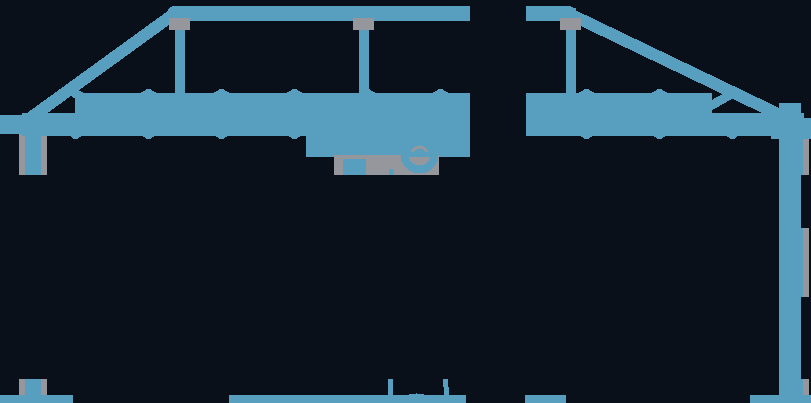
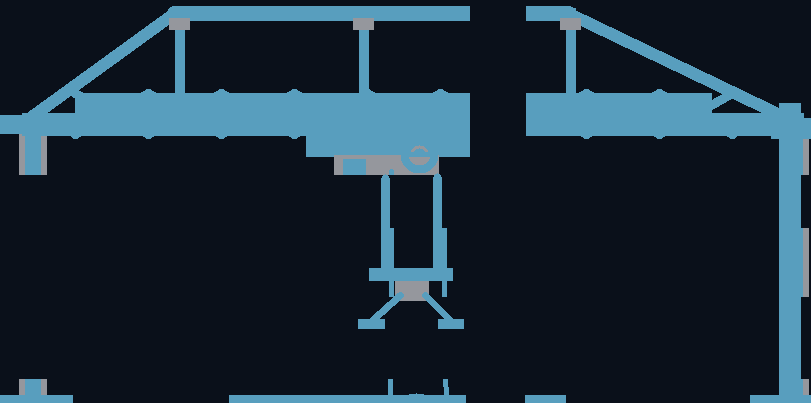
WORLDGROUP-FREIGHT Cleftline sibling 02 R3: repair salvage hoist handoff and annotate exemplar

Changed region(s): [[0.4316, 0.4169, 0.5857, 0.8337]]

diff --git a/cybersand-canvases/2048x1024/worldgroup-freight-cleftline-logistics-breakwater-recovery-hull-derigging-261120/README.md b/cybersand-canvases/2048x1024/worldgroup-freight-cleftline-logistics-breakwater-recovery-hull-derigging-261120/README.md
@@ -60,3 +60,11 @@ Unscaled one-to-one material crops (no concept art):
 - [Below-grade emergency return and service works](05-founded-recovery-works.png)
 
 **Review gates:** Independent Art, Technical and Shepherd reviews must inspect exact committed HEAD and genuine images before promotion. Explicitly assess whether the salvage-flow sequence, cutaway hull and center machinery remain sufficiently legible at actual Midge scale; all source-static metrics above are creator self-checks. Native Godot 4.7/Workbench/CyberDemoBridge/Rapier loading, terrain contact, actor movement/ticks, paint/restore and fresh save/reopen remain untested. Preserve OPEN Draft/HOLD; no merge, Ready or owner acceptance.
+
+
+## R3 exact-head bounded functional-art correction (20 November 2026)
+Independent Art identified a specific P1: the crown carriage around x950–1090/y250–330 did not communicate a physical handoff to the lower salvage cradle around x790–1250/y540–730. R3 introduces a forked hoist head, two lowered grip prongs, and a positively seated receiving clamp on the original cradle alignment. It does **not** redesign the topography, delete the open flight basin or add simulated moving machinery. The intentionally flyable corridor remains open between the separate upper/lower subassemblies. Actual material cell changes are generated by the deterministic `build.cjs`.
+
+Exact R3 new evidence: **3883** disjoint rectangles; **72231** setup bytes; **cf83e3ccaff870ae094bf6a29fe8f98f9ec9c9e1850a009cc8c6d4eb187d6c22** full material-grid SHA-256; exact sites **25/25** at all three 19×15, 23×19, 31×27 envelopes; physical obstruction detour **180→268** steps with 25/25 sites still reachable. Authored static-only; independently qualified Art and Technical results for this exact revision remain pending, and native playback/save/reopen is **NATIVE-UNTESTED**.
+
+New `exemplar.json` records use as a human-editable canvas, SWARM/GENTEK procedural exemplar and future scripted-event set-piece source; intentionally unfinished bays are not automatic defects.
